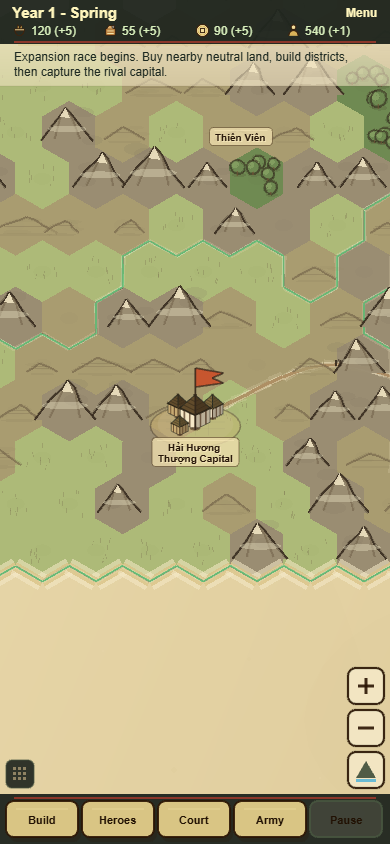
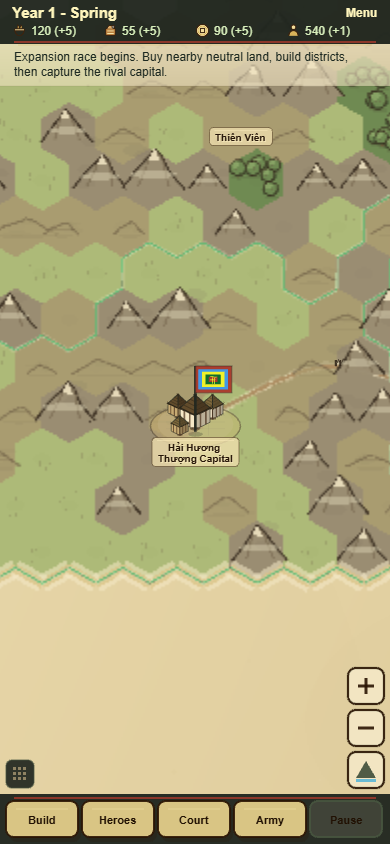
feat: optimize performance v3

diff --git a/src/scenes/MenuScene.ts b/src/scenes/MenuScene.ts
@@ -79,9 +79,9 @@ export class MenuScene extends Phaser.Scene {
       { x: 158, y: 430 }, { x: 120, y: 540 }, { x: 78, y: 648 }, { x: 36, y: 752 }, { x: -20, y: 844 },
     ];
     washFill(g, forestShape, terrain.forest, 0.78, () => rng());
-    // A handful of distinct groves keeps the bank wooded without crowding the page.
+    // A handful of distinct groves in the upper-left bank, all kept above the button column.
     this.mapRenderer.decorateTerrain(g, 'forest', [
-      { x: 56, y: 312 }, { x: 110, y: 396 }, { x: 44, y: 470 }, { x: 92, y: 568 }, { x: 48, y: 690 },
+      { x: 56, y: 300 }, { x: 116, y: 356 }, { x: 40, y: 424 }, { x: 100, y: 452 },
     ], 44, createMenuRng(444));
 
     // Right-bank rice terraces.
@@ -91,7 +91,7 @@ export class MenuScene extends Phaser.Scene {
     ];
     washFill(g, riceShape, terrain.riceFields, 0.7, () => rng());
     this.mapRenderer.decorateTerrain(g, 'riceFields', [
-      { x: 320, y: 392 }, { x: 336, y: 520 },
+      { x: 322, y: 372 }, { x: 346, y: 452 },
     ], 50, createMenuRng(555));
 
     // Lower plains behind the button column.
@@ -319,11 +319,11 @@ export class MenuScene extends Phaser.Scene {
   private drawArmies(): void {
     const g = this.add.graphics();
 
-    // Right bank – Dai Viet (player), all same red with same flag
+    // Right bank – Dai Viet (player), all same red with same flag.
+    // Kept in the upper field so nothing collides with the button column below (y ≥ 512).
     const rightFormations = [
-      { cx: 270, cy: 368, cols: 5, rows: 3 },
-      { cx: 322, cy: 446, cols: 4, rows: 3 },
-      { cx: 264, cy: 520, cols: 4, rows: 2 },
+      { cx: 268, cy: 356, cols: 5, rows: 3 },
+      { cx: 316, cy: 438, cols: 4, rows: 3 },
     ];
     for (const { cx, cy, cols, rows } of rightFormations) {
       this.drawSoldiers(g, cx, cy, this.mapRenderer.palette.mapObjects.player, cols, rows);
@@ -333,11 +333,10 @@ export class MenuScene extends Phaser.Scene {
       flag.setPosition(cx + totalW / 2 + 14, cy + totalH / 2 + 4);
     }
 
-    // Left bank – enemy army, all same dark olive with same flag
+    // Left bank – enemy army, all same dark olive with same flag.
     const leftFormations = [
-      { cx: 98,  cy: 368, cols: 4, rows: 3 },
-      { cx: 60,  cy: 446, cols: 5, rows: 3 },
-      { cx: 96,  cy: 518, cols: 4, rows: 2 },
+      { cx: 100, cy: 356, cols: 4, rows: 3 },
+      { cx: 62,  cy: 438, cols: 5, rows: 3 },
     ];
     const enemySeed = this.previewFlagSeed + 777;
     for (const { cx, cy, cols, rows } of leftFormations) {
@@ -523,26 +522,27 @@ export class MenuScene extends Phaser.Scene {
     const x = GAME_WIDTH / 2 - width / 2;
     const y = GAME_HEIGHT - 90;
 
-    const heading = this.ui.label(GAME_WIDTH / 2, y - 14, t('menu.mapTheme'), 'caption', {
-      color: '#f3dd9a', fontSize: '10px', fontStyle: '700', align: 'center',
+    const heading = this.ui.label(GAME_WIDTH / 2, y - 16, t('menu.mapTheme'), 'caption', {
+      color: '#3a2a14', fontSize: '10px', fontStyle: '700', align: 'center',
+      backgroundColor: 'rgba(243,230,196,0.55)', padding: { x: 5, y: 1 },
     }).setOrigin(0.5, 0);
-    const background = this.add.rectangle(x, y, width, itemHeight, INK_UI.parchment, 0.88).setOrigin(0, 0);
-    background.setStrokeStyle(2, INK_UI.brush, 0.78);
-    this.content.push(heading, background);
+    this.content.push(heading);
 
     MAP_THEME_OPTIONS.forEach((option, index) => {
       const selected = current === option.id;
       const left = x + index * itemWidth;
-      const fill = this.add.rectangle(left + 1, y + 1, itemWidth - 2, itemHeight - 2, selected ? INK_UI.goldLight : INK_UI.parchment, selected ? 0.98 : 0.2)
-        .setOrigin(0, 0).setInteractive({ useHandCursor: true });
-      const label = this.ui.label(left + itemWidth / 2, y + 6, t(option.labelKey), 'button', {
-        color: '#211103', fontSize: '11px', align: 'center',
-      }).setOrigin(0.5, 0);
-      fill.on('pointerup', () => {
+      const bounds = { x: left + 3, y, width: itemWidth - 6, height: itemHeight };
+      const tile = this.ui.crayonTile(bounds, { selected });
+      const label = this.ui.label(bounds.x + bounds.width / 2, y + itemHeight / 2, t(option.labelKey), 'button', {
+        color: '#211103', fontSize: '11px', fontStyle: selected ? '700' : '400', align: 'center',
+      }).setOrigin(0.5);
+      const hit = this.add.rectangle(bounds.x + bounds.width / 2, y + itemHeight / 2, bounds.width, itemHeight, 0xffffff, 0.001)
+        .setInteractive({ useHandCursor: true });
+      hit.on('pointerup', () => {
         setMapTheme(option.id);
         this.scene.restart();
       });
-      this.content.push(fill, label);
+      this.content.push(tile, label, hit);
     });
   }
 
@@ -592,49 +592,36 @@ export class MenuScene extends Phaser.Scene {
     const x = GAME_WIDTH / 2 - width / 2;
     const y = GAME_HEIGHT - 40;
 
-    const bg = this.add
-      .rectangle(x, y, width, itemHeight, INK_UI.parchment, 0.88)
-      .setOrigin(0, 0);
-
-    bg.setStrokeStyle(2, INK_UI.brush, 0.78);
-    this.content.push(bg);
-
     options.forEach((option, index) => {
       const selected = current === option.code;
       const left = x + index * itemWidth;
+      const bounds = { x: left + 3, y, width: itemWidth - 6, height: itemHeight };
 
-      const fill = this.add
-        .rectangle(
-          left + 1,
-          y + 1,
-          itemWidth - 2,
-          itemHeight - 2,
-          selected ? INK_UI.goldLight : INK_UI.parchment,
-          selected ? 0.98 : 0.2,
-        )
-        .setOrigin(0, 0)
-        .setInteractive({ useHandCursor: true });
-
+      const tile = this.ui.crayonTile(bounds, { selected });
       const label = this.ui
         .label(
-          left + itemWidth / 2,
-          y + 7,
-          `${option.flag} ${option.label}`,
+          bounds.x + bounds.width / 2,
+          y + itemHeight / 2,
+          `${option.flag} ${option.label}`.trim(),
           'button',
           {
             color: '#211103',
             fontSize: '12px',
+            fontStyle: selected ? '700' : '400',
             align: 'center',
           },
         )
-        .setOrigin(0.5, 0);
+        .setOrigin(0.5);
 
-      fill.on('pointerup', () => {
+      const hit = this.add
+        .rectangle(bounds.x + bounds.width / 2, y + itemHeight / 2, bounds.width, itemHeight, 0xffffff, 0.001)
+        .setInteractive({ useHandCursor: true });
+      hit.on('pointerup', () => {
         setLanguage(option.code);
         this.render();
       });
 
-      this.content.push(fill, label);
+      this.content.push(tile, label, hit);
     });
   }
 

diff --git a/src/ui/InkUI.ts b/src/ui/InkUI.ts
@@ -192,6 +192,39 @@ export class InkUI {
     return this.scene.add.text(x, y, text, { ...textStyle(variant), ...overrides });
   }
 
+  /**
+   * A hand-drawn "crayon" tile used for every segmented selector (map theme,
+   * language, campaign map-type/difficulty) so those controls read consistently.
+   * Waxy parchment fill with a wobbly double outline; the caller adds the label
+   * and an interactive hit area on top. Selected tiles use a gold fill + cinnabar
+   * outline so the active choice pops on both the light atlas and dark ink themes.
+   */
+  crayonTile(bounds: UIBounds, opts: { selected?: boolean; fill?: number; accent?: number } = {}): Phaser.GameObjects.Graphics {
+    const { selected = false, accent = INK_UI.cinnabar } = opts;
+    const fill = opts.fill ?? (selected ? INK_UI.goldLight : INK_UI.parchment);
+    const radius = 6;
+    const seed = Math.round(bounds.x * 7 + bounds.y * 13 + bounds.width * 3);
+    const g = this.scene.add.graphics({ x: bounds.x, y: bounds.y });
+
+    // Soft cast shadow so the tiles feel like paper cutouts.
+    g.fillStyle(INK_UI.brush, 0.1);
+    g.fillRoundedRect(1.5, 2.5, bounds.width, bounds.height, radius);
+
+    // Waxy fill with a few uneven crayon streaks for texture.
+    g.fillStyle(fill, selected ? 0.98 : 0.92);
+    g.fillRoundedRect(0, 0, bounds.width, bounds.height, radius);
+    const rnd = crayonRng(seed + 5);
+    g.fillStyle(INK_UI.parchmentShade, selected ? 0.1 : 0.18);
+    for (let i = 0; i < 3; i += 1) {
+      const streakY = 3 + rnd() * (bounds.height - 6);
+      g.fillRect(3, streakY, bounds.width - 6, 1.3);
+    }
+
+    // Wobbly hand-drawn double outline.
+    strokeCrayonRect(g, bounds.width, bounds.height, selected ? accent : INK_UI.brush, selected ? 0.95 : 0.72, seed);
+    return g;
+  }
+
   panel(bounds: UIBounds, opts: InkSurfaceOptions = {}): Phaser.GameObjects.Graphics {
     const {
       fill = INK_UI.parchment,
@@ -606,6 +639,52 @@ function buttonPalette(variant: InkButtonVariant, pressed: boolean): { top: numb
 
 function colorToCss(color: number): string {
   return `#${color.toString(16).padStart(6, '0')}`;
+}
+
+function crayonRng(seed: number): () => number {
+  let value = (seed >>> 0) || 1;
+  return () => {
+    value = (value * 1664525 + 1013904223) >>> 0;
+    return value / 0x100000000;
+  };
+}
+
+/** Points sampled around a rectangle perimeter, used as the path for a jittered crayon outline. */
+function rectPerimeter(width: number, height: number, step: number): Array<{ x: number; y: number }> {
+  const points: Array<{ x: number; y: number }> = [];
+  const cols = Math.max(2, Math.round(width / step));
+  const rows = Math.max(2, Math.round(height / step));
+  for (let i = 0; i < cols; i += 1) points.push({ x: (width * i) / cols, y: 0 });
+  for (let i = 0; i < rows; i += 1) points.push({ x: width, y: (height * i) / rows });
+  for (let i = 0; i < cols; i += 1) points.push({ x: width - (width * i) / cols, y: height });
+  for (let i = 0; i < rows; i += 1) points.push({ x: 0, y: height - (height * i) / rows });
+  return points;
+}
+
+/** Two overlapping jittered passes around a rectangle for a waxy, hand-drawn crayon border. */
+function strokeCrayonRect(
+  g: Phaser.GameObjects.Graphics,
+  width: number,
+  height: number,
+  color: number,
+  alpha: number,
+  seed: number,
+): void {
+  const points = rectPerimeter(width, height, 9);
+  for (let pass = 0; pass < 2; pass += 1) {
+    const rnd = crayonRng(seed + pass * 131 + 17);
+    const jitter = pass === 0 ? 1.6 : 0.9;
+    g.lineStyle(pass === 0 ? 2.6 : 1.3, color, alpha * (pass === 0 ? 0.42 : 0.95));
+    g.beginPath();
+    points.forEach((point, index) => {
+      const x = point.x + (rnd() - 0.5) * jitter;
+      const y = point.y + (rnd() - 0.5) * jitter;
+      if (index === 0) g.moveTo(x, y);
+      else g.lineTo(x, y);
+    });
+    g.closePath();
+    g.strokePath();
+  }
 }
 
 function estimateTextHeight(text: string, width: number, fontSize: number, lineSpacing: number): number {

diff --git a/src/scenes/MapScene.ts b/src/scenes/MapScene.ts
@@ -32,6 +32,10 @@ const MIN_CAMERA_ZOOM = 0.72;
 const MAX_CAMERA_ZOOM = 1.65;
 const CAMERA_ZOOM_STEP = 0.16;
 const WORLD_PADDING = 300;
+// Static map layers are baked at reduced resolution and displayed scaled up. The
+// ink-wash terrain tolerates the softening (labels/units stay live + crisp), and it
+// quarters the cached-texture GPU memory (two full-world RTs: ~52 MB -> ~13 MB).
+const BAKE_SCALE = 0.5;
 
 export class MapScene extends Phaser.Scene {
   private state!: GameState;
@@ -718,8 +722,10 @@ export class MapScene extends Phaser.Scene {
       return;
     }
     if (!this.staticBakeRT) {
-      this.staticBakeRT = this.add.renderTexture(0, 0, this.worldWidth, this.worldHeight)
+      // Texture is baked at BAKE_SCALE resolution then displayed scaled up to full world size.
+      this.staticBakeRT = this.add.renderTexture(0, 0, Math.ceil(this.worldWidth * BAKE_SCALE), Math.ceil(this.worldHeight * BAKE_SCALE))
         .setOrigin(0, 0)
+        .setScale(1 / BAKE_SCALE)
         .setDepth(1.9);
     }
 
@@ -738,8 +744,13 @@ export class MapScene extends Phaser.Scene {
       .filter((obj) => obj.visible)
       .sort((a, b) => a.depth - b.depth); // V8 stable sort preserves insertion order on ties
 
+    // Sources are all Graphics anchored at world origin (0,0), so scaling them by
+    // BAKE_SCALE for the draw shrinks their geometry into the reduced-res texture.
+    const scalable = visible as unknown as Array<{ setScale(v: number): unknown }>;
+    for (const source of scalable) source.setScale(BAKE_SCALE);
     this.staticBakeRT.clear();
     this.staticBakeRT.draw(visible, 0, 0);
+    for (const source of scalable) source.setScale(1);
 
     for (const source of band) source.setVisible(false);
     this.lastBakedRenderMode = this.state.mapRenderMode;
@@ -772,7 +783,7 @@ export class MapScene extends Phaser.Scene {
       return; // diagnostic: leave live fog Graphics visible to compare against the bake
     }
     if (this.fillerFogGraphics) {
-      this.overlays.bakeFog(this.worldWidth, this.worldHeight, [this.fillerFogGraphics]);
+      this.overlays.bakeFog(this.worldWidth, this.worldHeight, [this.fillerFogGraphics], BAKE_SCALE);
     }
   }
 

diff --git a/src/scenes/map/OverlayRenderer.ts b/src/scenes/map/OverlayRenderer.ts
@@ -128,17 +128,22 @@ export class OverlayRenderer {
    * source Graphics. This replaces ~90k per-frame fill/triangulation commands with a
    * single textured quad. Re-run whenever visibility changes (the static signature).
    */
-  bakeFog(worldWidth: number, worldHeight: number, extra: Phaser.GameObjects.Graphics[] = []): void {
+  bakeFog(worldWidth: number, worldHeight: number, extra: Phaser.GameObjects.Graphics[] = [], scale = 1): void {
     if (!this.fogBakeRT) {
-      this.fogBakeRT = this.scene.add.renderTexture(0, 0, worldWidth, worldHeight)
+      // Baked at `scale` resolution then displayed scaled up; fog is a soft tint so the
+      // reduced resolution is imperceptible and it cuts the cached-texture memory.
+      this.fogBakeRT = this.scene.add.renderTexture(0, 0, Math.ceil(worldWidth * scale), Math.ceil(worldHeight * scale))
         .setOrigin(0, 0)
+        .setScale(1 / scale)
         .setDepth(77.5);
     }
     const sources = [this.fogGraphics, ...extra];
-    for (const source of sources) source.setVisible(true);
+    // Sources are anchored at world origin, so scaling them shrinks their geometry into
+    // the reduced-res texture.
+    for (const source of sources) { source.setVisible(true); source.setScale(scale); }
     this.fogBakeRT.clear();
     this.fogBakeRT.draw(sources, 0, 0);
-    for (const source of sources) source.setVisible(false);
+    for (const source of sources) { source.setVisible(false); source.setScale(1); }
   }
 
   repaintFogOfWar(state: GameState, hexTileMap: Map<string, HexTile>, wx: WorldTransform, wy: WorldTransform): void {

diff --git a/src/scenes/CampaignScene.ts b/src/scenes/CampaignScene.ts
@@ -147,14 +147,14 @@ export class CampaignScene extends Phaser.Scene {
       const x = startX + i * btnW;
       const selected = isSelected(option);
 
-      // Unselected tabs stay an opaque parchment chip with dark ink text so they
-      // read on both the dark ink-wash sea and the light illustrated-atlas paper.
-      const bg = this.add
-        .rectangle(x + 1, y + 1, btnW - 2, btnH - 2, selected ? INK_UI.goldLight : INK_UI.parchmentShade, selected ? 0.95 : 0.78)
-        .setOrigin(0, 0);
-      bg.setStrokeStyle(selected ? 2 : 1, selected ? INK_UI.gold : INK_UI.brush, selected ? 0.9 : 0.55);
-      bg.setInteractive({ useHandCursor: true });
-      bg.on('pointerup', () => onSelect(i));
+      // Shared crayon tile keeps these selectors consistent with the menu's
+      // theme/language tiles; dark ink text reads on both themes' backgrounds.
+      const bounds = { x: x + 2, y, width: btnW - 4, height: btnH };
+      const tile = this.ui.crayonTile(bounds, { selected });
+      const hit = this.add
+        .rectangle(bounds.x + bounds.width / 2, y + btnH / 2, bounds.width, btnH, 0xffffff, 0.001)
+        .setInteractive({ useHandCursor: true });
+      hit.on('pointerup', () => onSelect(i));
 
       const labelText = createLabel(this, x + btnW / 2, y + btnH / 2, option.label, 'label', {
         fontSize: '13px',
@@ -163,7 +163,7 @@ export class CampaignScene extends Phaser.Scene {
         align: 'center',
       }).setOrigin(0.5);
 
-      this.content.push(bg, labelText);
+      this.content.push(tile, hit, labelText);
     }
   }
 
